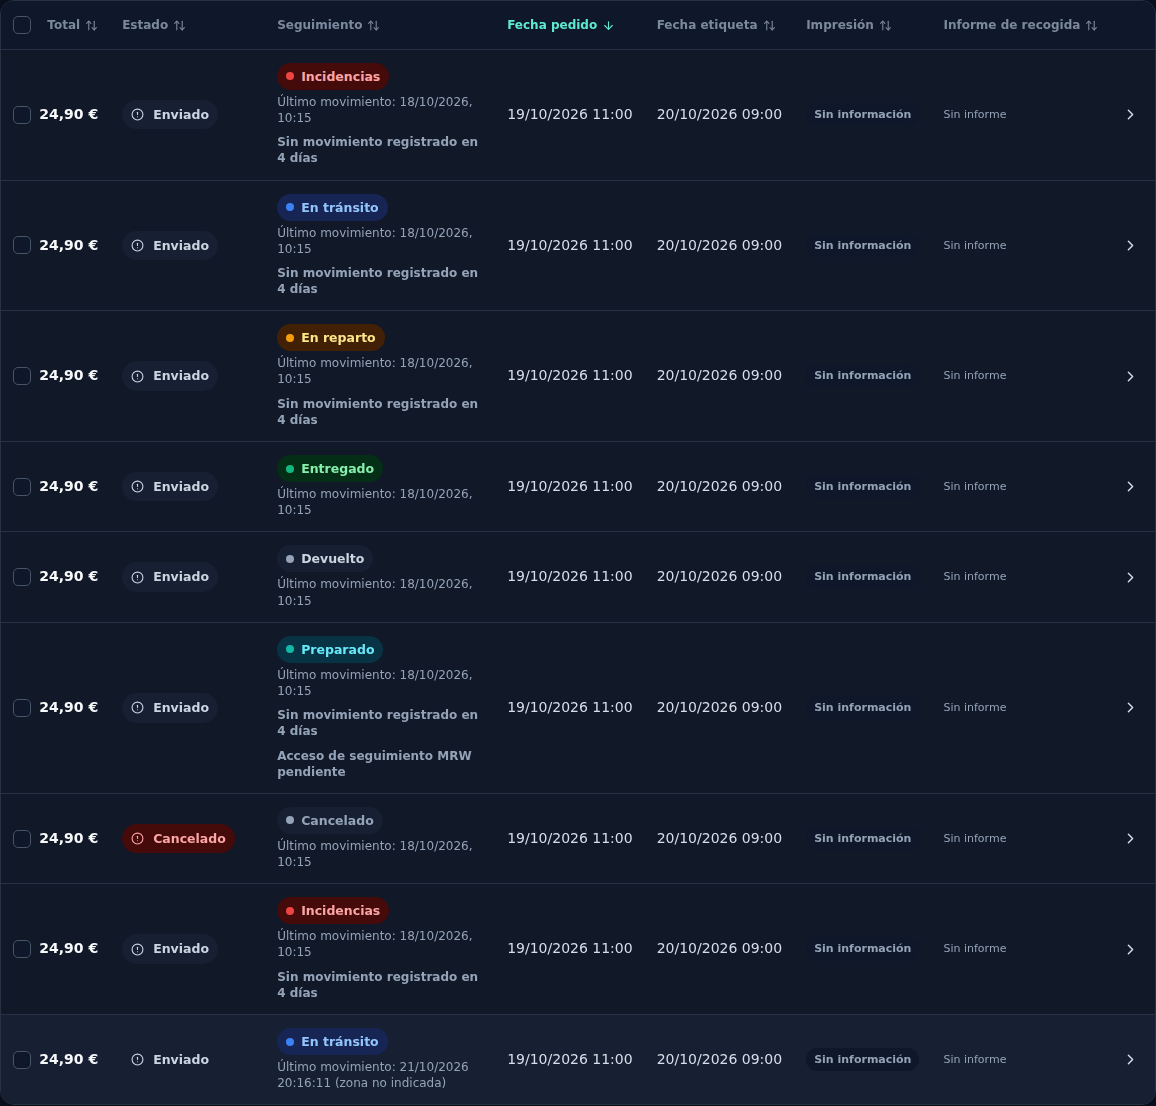
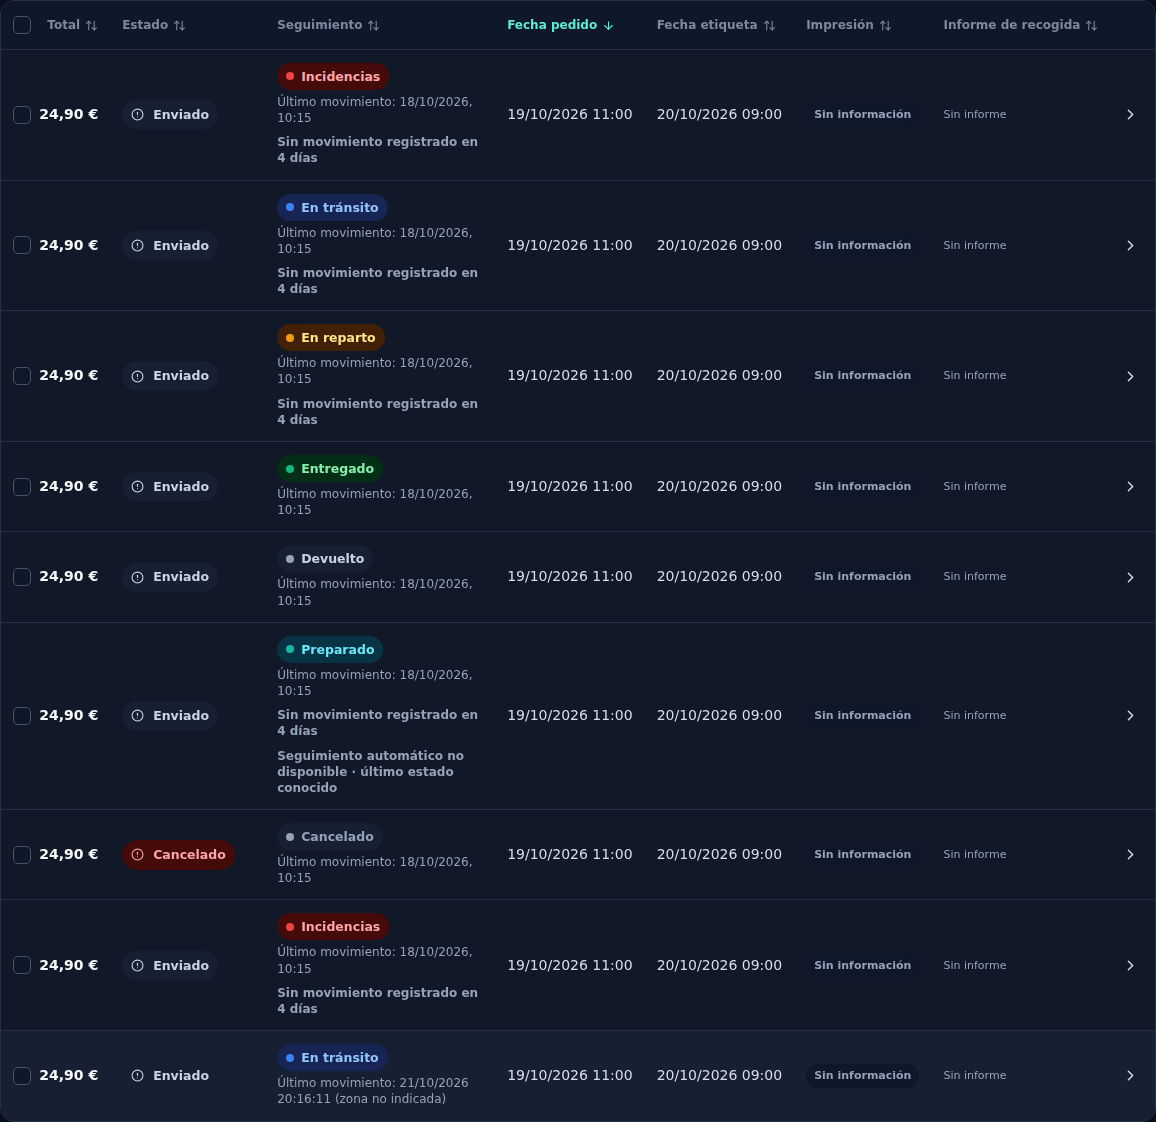
test(tracking): complete local visual review evidence

diff --git a/docs/deploy/20261022-tracking-visual-review.md b/docs/deploy/20261022-tracking-visual-review.md
@@ -1,0 +1,26 @@
+# Revisión visual de seguimiento — 22/10/2026
+
+Revisión local sobre `feat/shipment-tracking-shadow`, con el [fixture sintético](../../scripts/shipment-tracking-screenshots.mjs). Las dos ejecuciones terminaron correctamente: seis combinaciones por conjunto (390, 1280 y 1440 px; claro y oscuro), sin errores JavaScript ni peticiones externas. No se publicó la UI ni se desplegó o modificó producción.
+
+## Resultado visual
+
+| Elemento | Resultado | Evidencia |
+| --- | --- | --- |
+| Columna Seguimiento completa | Siete estados visibles, sin recortes: Preparado (turquesa), En tránsito (azul), En reparto (ámbar), Entregado (verde), Incidencias (rojo), Devuelto y Cancelado (neutros) | [Claro 1440](20261022-tracking-review-v2/tracking-seven-states-light-1440.png), [oscuro 1280](20261022-tracking-review-v2/tracking-seven-states-dark-1280.png) |
+| Fechas y avisos | `18/10/2026, 10:15`; aviso de cuatro días sin movimiento en estados activos; sin aviso en terminales | Mismas capturas de siete estados |
+| Hora civil Envia | `21/10/2026 20:16:11 (zona no indicada)`; no se inventa zona horaria | Última fila de siete estados |
+| Historial | Tres eventos con estado español, fecha/hora es-ES, texto y código original; orden más reciente primero | [Claro 390](20261022-tracking-review-v2/history-events-light-390.png), [oscuro 1440](20261022-tracking-review-v2/history-events-dark-1440.png) |
+| Tarifas de transporte | Botón visible en cabecera móvil y escritorio | [Oscuro 390](20261022-tracking-review-v2/header-dark-390.png), [claro 1440](20261022-tracking-review-v2/header-light-1440.png) |
+| Filtro Incidencias | Dos filas de incidencia, con columna, fecha y aviso visibles | [Claro 1440](20261022-tracking-review-v2/incidents-tracking-light-1440.png), [oscuro 1280](20261022-tracking-review-v2/incidents-tracking-dark-1280.png) |
+| MRW sin acceso automático | Estado «Sin seguimiento disponible», fecha no disponible, última comprobación y enlace manual; historial vacío explícito | [Claro 390](20261022-mrw-unavailable-review/mrw-manual-link-light-390.png), [oscuro 390](20261022-mrw-unavailable-review/mrw-manual-link-dark-390.png), [claro 1440](20261022-mrw-unavailable-review/mrw-manual-link-light-1440.png) |
+
+Las capturas anteriores de MRW móvil mostraban la parte superior del detalle y dejaban el enlace manual debajo del recorte. Las nuevas desplazan el detalle hasta el enlace. Las capturas anteriores del filtro Incidencias volvían al inicio horizontal de la tabla; las nuevas muestran expresamente Seguimiento.
+
+## Reproducción
+
+```bash
+node scripts/shipment-tracking-screenshots.mjs
+TRACKING_MRW_UNAVAILABLE=1 node scripts/shipment-tracking-screenshots.mjs
+```
+
+Los conjuntos locales generados contienen 44 y 56 PNG, respectivamente; este cambio versiona únicamente las capturas seleccionadas para revisión, no ambos conjuntos completos. Los manifiestos locales `after-manifest.json` registran las seis combinaciones, cero errores y cero peticiones externas. Las imágenes prueban presentación con datos sintéticos; no prueban acceso real a MRW ni estados de envíos de producción. Los indicadores comerciales del fixture son datos de apoyo y no validan cálculos de KPI.
